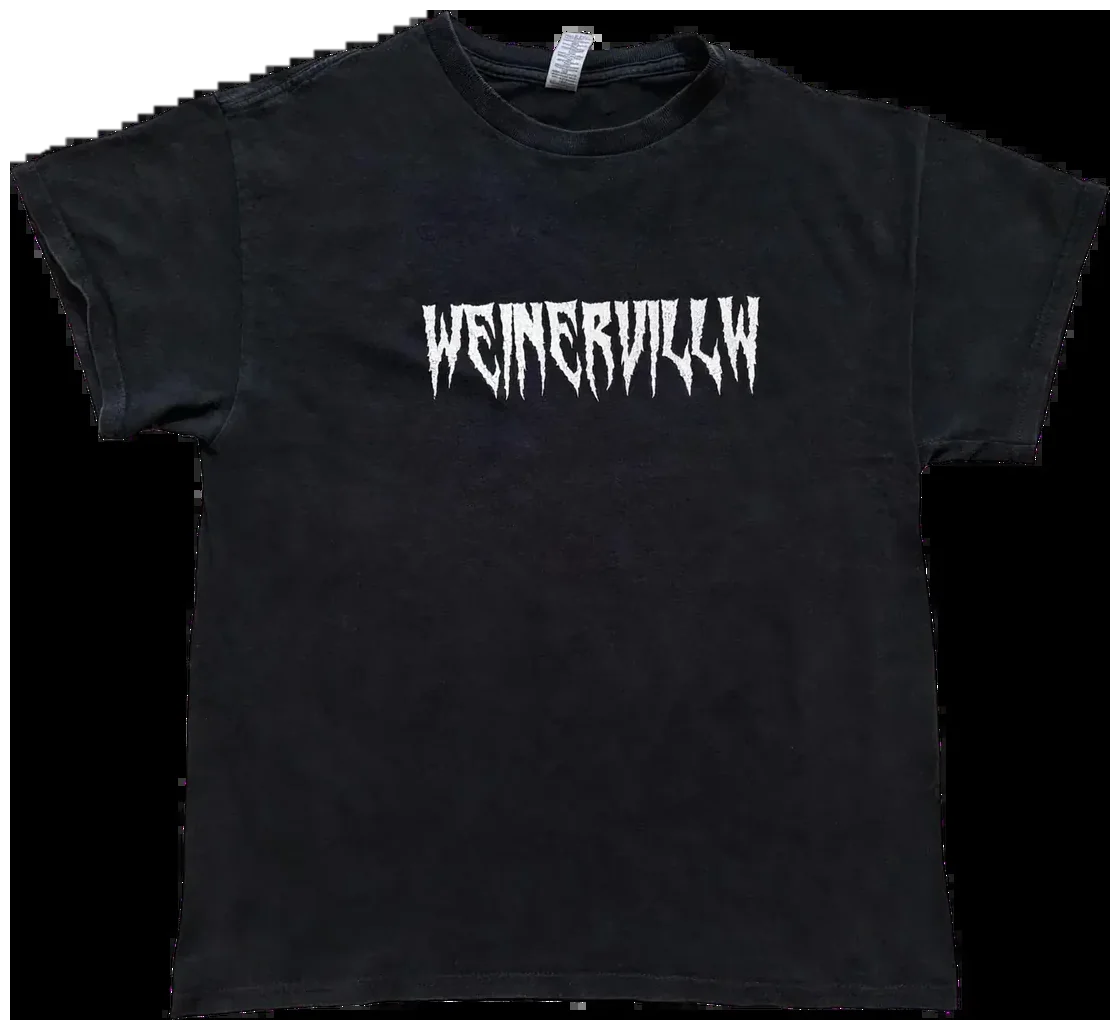
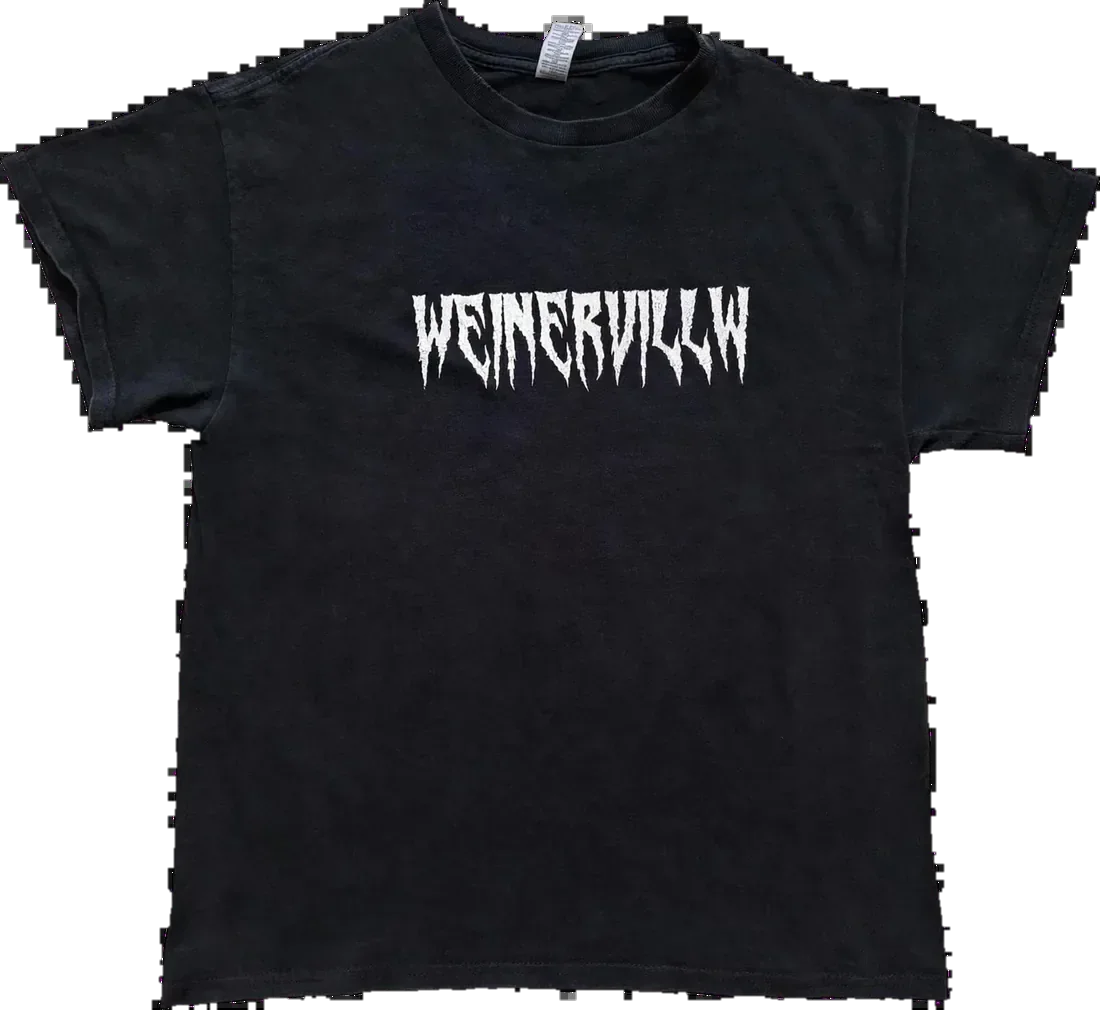
Add files via upload

Changed region(s): [[0.0, 0.0, 1.0, 1.0], [0.3709, 0.2762, 0.68, 0.399]]

diff --git a/index.html b/index.html
@@ -151,7 +151,7 @@
   .grafica3d img{width:100%;display:block;}
   .grafica3d.larga{width:76%;}
   .grafica-canvas{display:block;}
-  .slide img.foto{height:88%;width:100%;object-fit:contain;display:block;filter:drop-shadow(0 6px 14px rgba(0,0,0,.55));}
+  .slide img.foto{height:94%;width:100%;object-fit:contain;display:block;filter:drop-shadow(0 6px 14px rgba(0,0,0,.55));}
   .grafica-video{display:block;object-fit:contain;pointer-events:none;}
   .capo{display:flex;flex-direction:column;}
   .capo{position:relative;}
@@ -398,7 +398,7 @@
   <a class="chrome pieno shopnow" id="shopnow" href="#catalogo"><span>SHOP NOW</span></a>
 </main>
 
-<div class="divisore" aria-hidden="true"><img loading="lazy" decoding="async" src="skater.png?v=22" alt=""></div>
+<div class="divisore" aria-hidden="true"><img loading="lazy" decoding="async" src="skater.png?v=23" alt=""></div>
 
 <!-- AVVISAMI DEL PROSSIMO PEZZO -->
 <section class="avvisami" id="avvisami">
@@ -430,7 +430,7 @@
       <div class="griglia" id="official-griglia"></div>
     </div>
   </div>
-  <div class="divisore sfasato" aria-hidden="true"><img loading="lazy" decoding="async" src="skater.png?v=22" alt=""></div>
+  <div class="divisore sfasato" aria-hidden="true"><img loading="lazy" decoding="async" src="skater.png?v=23" alt=""></div>
 </div>
 
 
@@ -479,7 +479,7 @@
 <!-- POPUP -->
 <div id="popup">
   <div class="popup-box" role="dialog" aria-modal="true">
-    <img class="popup-cornice" src="cornice-w.webp?v=22" alt="">
+    <img class="popup-cornice" src="cornice-w.webp?v=23" alt="">
     <button class="popup-chiudi" aria-label="Chiudi">x</button>
     <div class="popup-finestra">
       <div class="popup-titolo" id="popup-titolo"></div>
@@ -533,7 +533,7 @@ function avanzaCoda(){
 const TOUCH = matchMedia('(pointer:coarse)').matches;
 const LEGGERO = TOUCH && ((navigator.deviceMemory && navigator.deviceMemory <= 4) ||
                           (navigator.hardwareConcurrency && navigator.hardwareConcurrency <= 4));
-const V = '?v=22';
+const V = '?v=23';
 const pausa = ms => new Promise(r => setTimeout(r, ms));
 class Sprite3D {
   constructor(o){
@@ -769,7 +769,7 @@ window.addEventListener('resize', lampoFit);
 const PEZZI = [
   {
     nome:'Tee Champion sigil custom', prezzo:'\u20ac 24,90', stripe:'https://buy.stripe.com/bJe3cxeI33eogjEc7PfAc07',
-    grafica:{tipo:'video', src:'logo1-spin.mp4', larghezza:'62%'},
+    grafica:{tipo:'anim', src:'logo1-spin.webp', larghezza:'62%'},
     foto:['champion-capo.webp','champion-indossata.webp','champion-dettaglio.webp'],
     taglia:'M',
     misure:[['Larghezza','48 cm'],['Lunghezza','70 cm'],['Manica al collo','37 cm']],
@@ -781,7 +781,7 @@ const PEZZI = [
   },
   {
     nome:'Jeans tribal love Cache Cache custom', prezzo:'\u20ac 34,89', stripe:'https://buy.stripe.com/4gM4gBdDZ8yId7s2xffAc05', venduto:true,
-    grafica:{tipo:'video', src:'logo2-spin.mp4', larghezza:'96%'},
+    grafica:{tipo:'anim', src:'logo2-spin.webp', larghezza:'96%'},
     foto:['jeans-capo.webp','jeans-fronte.webp','jeans-indossato-1.webp','jeans-indossato-2.webp'],
     taglia:'M',
     misure:[['Lunghezza','104 cm'],['Vita','37 cm'],['Caviglia','25 cm']],
@@ -808,6 +808,7 @@ const PEZZI = [
   {
     nome:'Tribal long sleeve WEINERVILLE', prezzo:'\u20ac 24,90', stripe:'https://buy.stripe.com/00w14p8jFeX6aZk6NvfAc09',
     ufficiale:true,
+    copertina:'felpa-indossata-1.webp',
     foto:['felpa-capo.webp','felpa-indossata-1.webp','felpa-indossata-2.webp','felpa-video.mp4'],
     taglie:[
       { nome:'S', venduto:false, stripe:'', misure:[['Lunghezza','62 cm'],['Larghezza','58 cm'],['Manica al collo','78 cm']] },
@@ -872,7 +873,7 @@ function esaurito(p){ return p.venduto || p.nonDisponibile || (p.taglie && p.tag
 function etichettaStato(p){ return 'Esaurito'; }
 function badge(p){ return esaurito(p) ? '<span class="badge-esaurito">' + etichettaStato(p) + '</span>' : ''; }
 const isVideo = f => /\.(mp4|webm)$/i.test(f);
-const copertina = p => p.foto.find(f => !isVideo(f)) || p.foto[0];
+const copertina = p => p.copertina || p.foto.find(f => !isVideo(f)) || p.foto[0];
 function mediaGalleria(f){
   if (isVideo(f)){
     const base = f.replace(/\.(mp4|webm)$/i, '');
@@ -895,7 +896,9 @@ function creaCard(i, soloFoto){
   const art = document.createElement('article');
   art.className = 'capo' + (esaurito(p) ? ' esaurito' : '');
   let slide1;
-  if (p.grafica.tipo === 'video'){
+  if (p.grafica.tipo === 'anim'){
+    slide1 = '<img class="grafica-video" style="width:' + p.grafica.larghezza + ';max-height:96%" src="' + p.grafica.src + V + '" alt="" decoding="async">';
+  } else if (p.grafica.tipo === 'video'){
     const base = p.grafica.src.replace(/\.mp4$/, '');
     slide1 = '<video class="grafica-video" style="width:' + p.grafica.larghezza + ';max-height:96%" muted playsinline loop autoplay preload="auto">' +
              '<source src="' + base + '.mp4' + V + '" type="video/mp4"><source src="' + base + '.webm' + V + '" type="video/webm"></video>';
